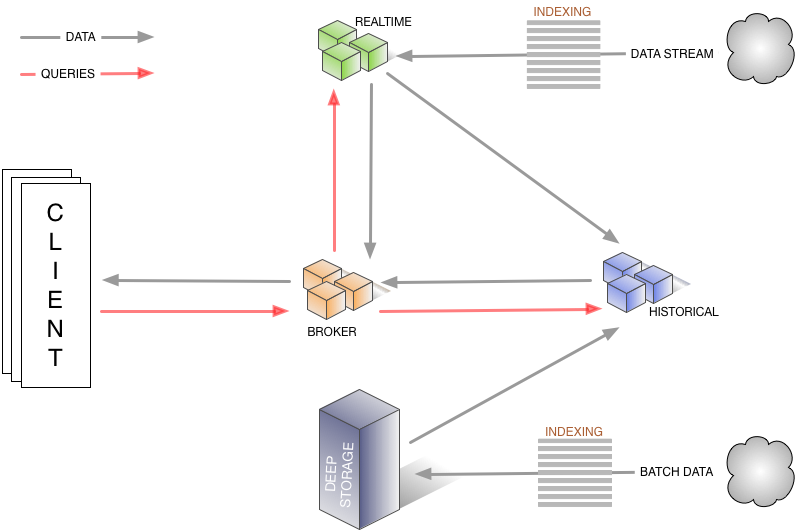
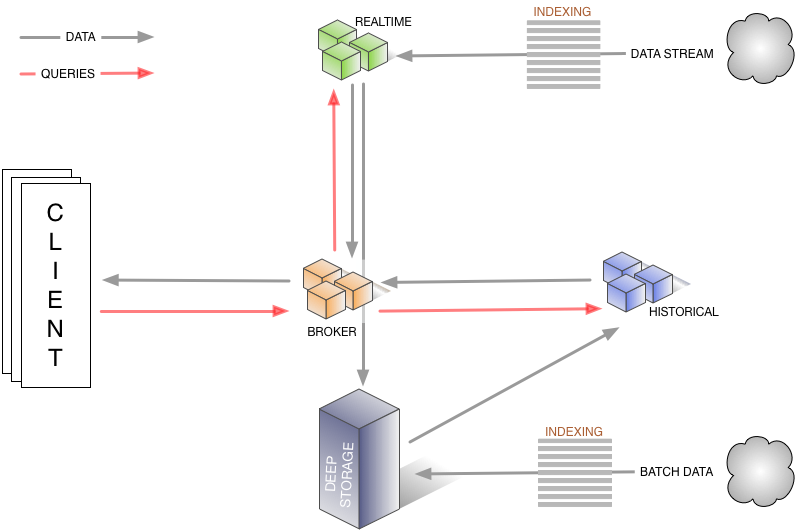
updates Realtime node's dataflow connection, s/historical/deep storage; a bit more information on how Realtime nodes drop segments based on said segments' uptake by Historicals

diff --git a/docs/content/Design.md b/docs/content/Design.md
@@ -30,7 +30,7 @@ Each of the systems, or components, described below also has a dedicated page wi
 The node types that currently exist are:
 
 * [**Historical**](Historical.html) nodes are the workhorses that handle storage and querying on "historical" data (non-realtime). Historical nodes download segments from deep storage, respond to the queries from broker nodes about these segments, and return results to the broker nodes. They announce themselves and the segments they are serving in Zookeeper, and also use Zookeeper to monitor for signals to load or drop new segments.
-* [**Realtime**](Realtime.html) nodes ingest data in real time. They are in charge of listening to a stream of incoming data and making it available immediately inside the Druid system. Real-time nodes respond to query requests from Broker nodes, returning query results to those nodes. Aged data is pushed from Realtime nodes to Historical nodes.
+* [**Realtime**](Realtime.html) nodes ingest data in real time. They are in charge of listening to a stream of incoming data and making it available immediately inside the Druid system. Real-time nodes respond to query requests from Broker nodes, returning query results to those nodes. Aged data is pushed from Realtime nodes to deep storage. Realtime nodes monitor ZooKeeper to discover segments that they've pushed to deep storage have been loaded by Historicals&mdash;if so, they drop those segments.
 * [**Coordinator**](Coordinator.html) nodes monitor the grouping of historical nodes to ensure that data is available, replicated and in a generally "optimal" configuration. They do this by reading segment metadata information from metadata storage to determine what segments should be loaded in the cluster, using Zookeeper to determine what Historical nodes exist, and creating Zookeeper entries to tell Historical nodes to load and drop new segments.
 * [**Broker**](Broker.html) nodes receive queries from external clients and forward those queries to Realtime and Historical nodes. When Broker nodes receive results, they merge these results and return them to the caller. For knowing topology, Broker nodes use Zookeeper to determine what Realtime and Historical nodes exist.
 * [**Indexer**](Indexing-Service.html) nodes form a cluster of workers to load batch and real-time data into the system as well as allow for alterations to the data stored in the system (also known as the Indexing Service).
@@ -77,7 +77,7 @@ In order for a segment to exist inside of the cluster, an entry has to be added 
 -   **Historical** As discussed above, if a historical node dies, another historical node can take its place and there is no fear of data loss.
 -   **Coordinator** Can be run in a hot fail-over configuration. If no coordinators are running, then changes to the data topology will stop happening (no new data and no data balancing decisions), but the system will continue to run.
 -   **Broker** Can be run in parallel or in hot fail-over.
--   **Realtime** Depending on the semantics of the delivery stream, multiple of these can be run in parallel processing the exact same stream. They periodically checkpoint to disk and eventually push out to the Historical nodes. Steps are taken to be able to recover from process death, but loss of access to the local disk can result in data loss if this is the only method of adding data to the system.
+-   **Realtime** Depending on the semantics of the delivery stream, multiple of these can be run in parallel processing the exact same stream. They periodically checkpoint to disk and eventually push out to deep storage. Steps are taken to be able to recover from process death, but loss of access to the local disk can result in data loss if this is the only method of adding data to the system.
 -   **"deep storage" file system** If this is not available, new data will not be able to enter the cluster, but the cluster will continue operating as is.
 -   **metadata storage** If this is not available, the Coordinator will be unable to find out about new segments in the system, but it will continue with its current view of the segments that should exist in the cluster.
 -   **ZooKeeper** If this is not available, data topology changes cannot be made, but the Brokers will maintain their most recent view of the data topology and continue serving requests accordingly.
